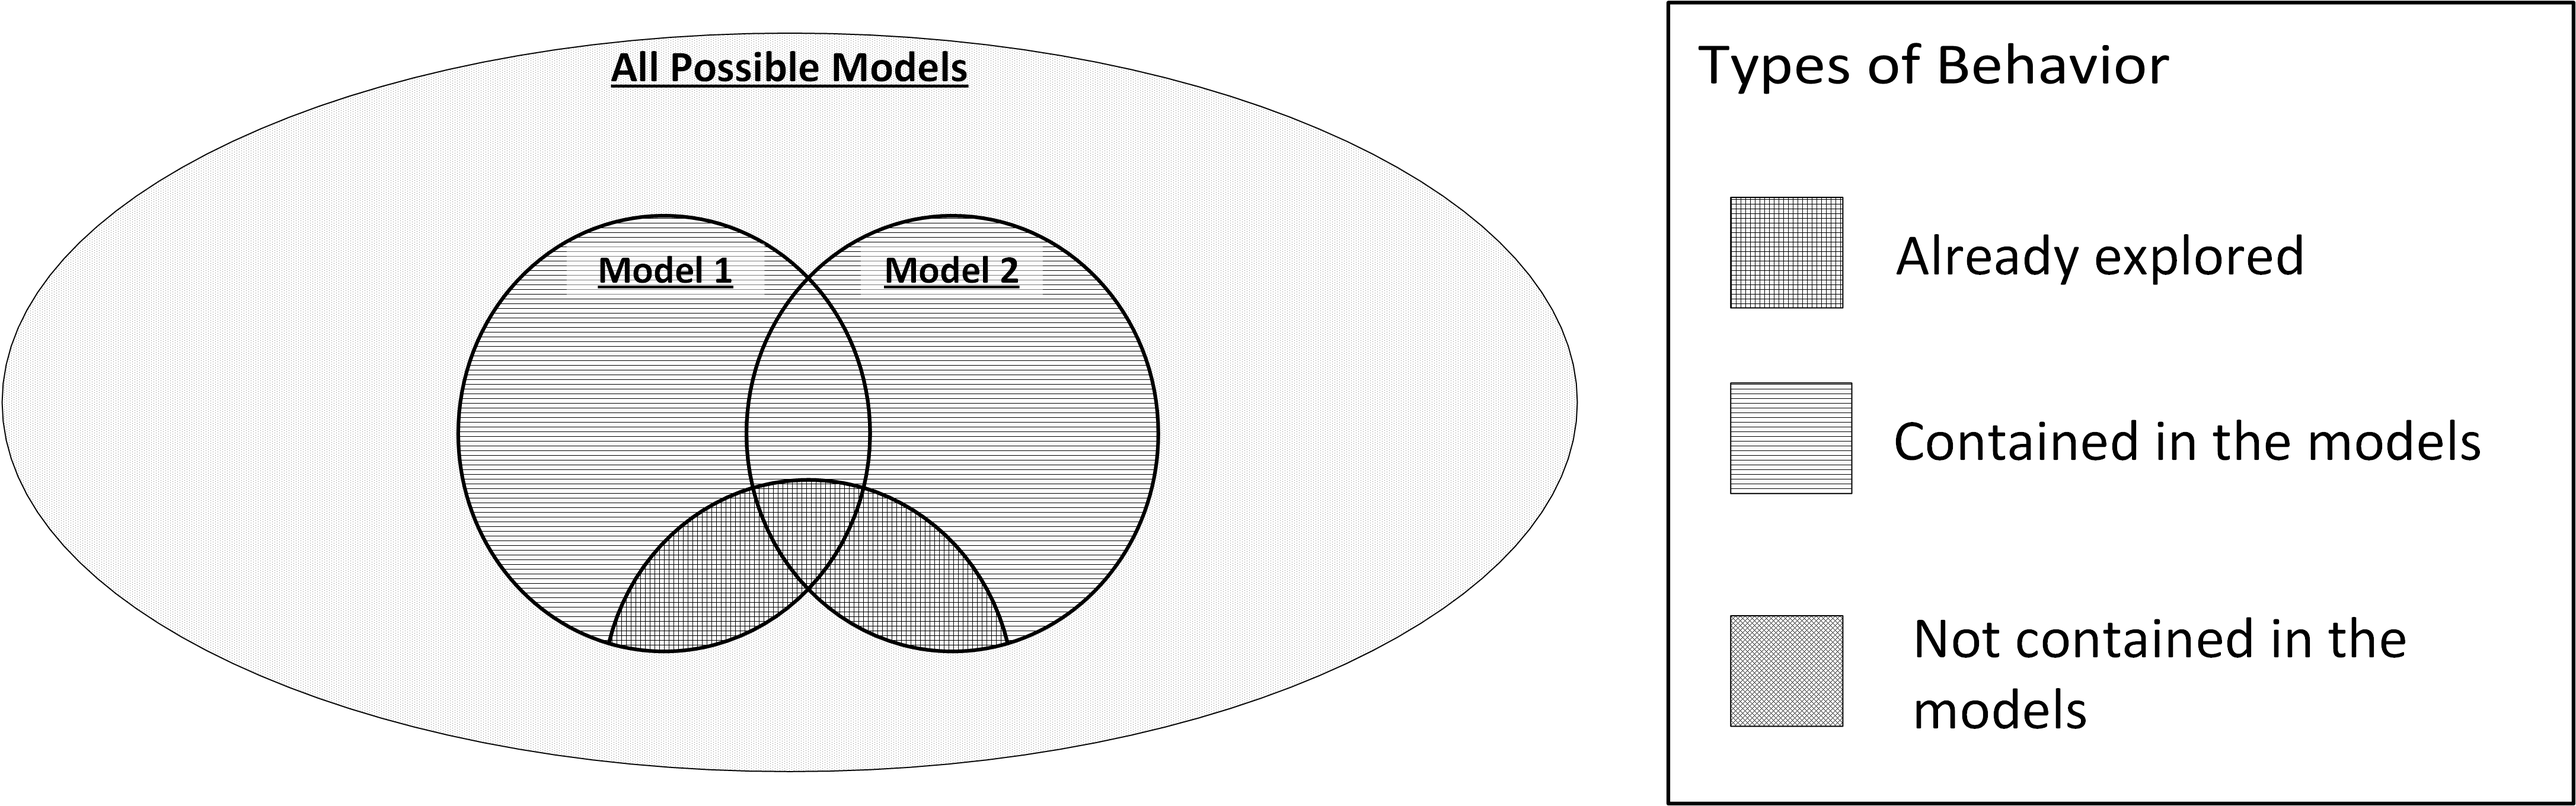
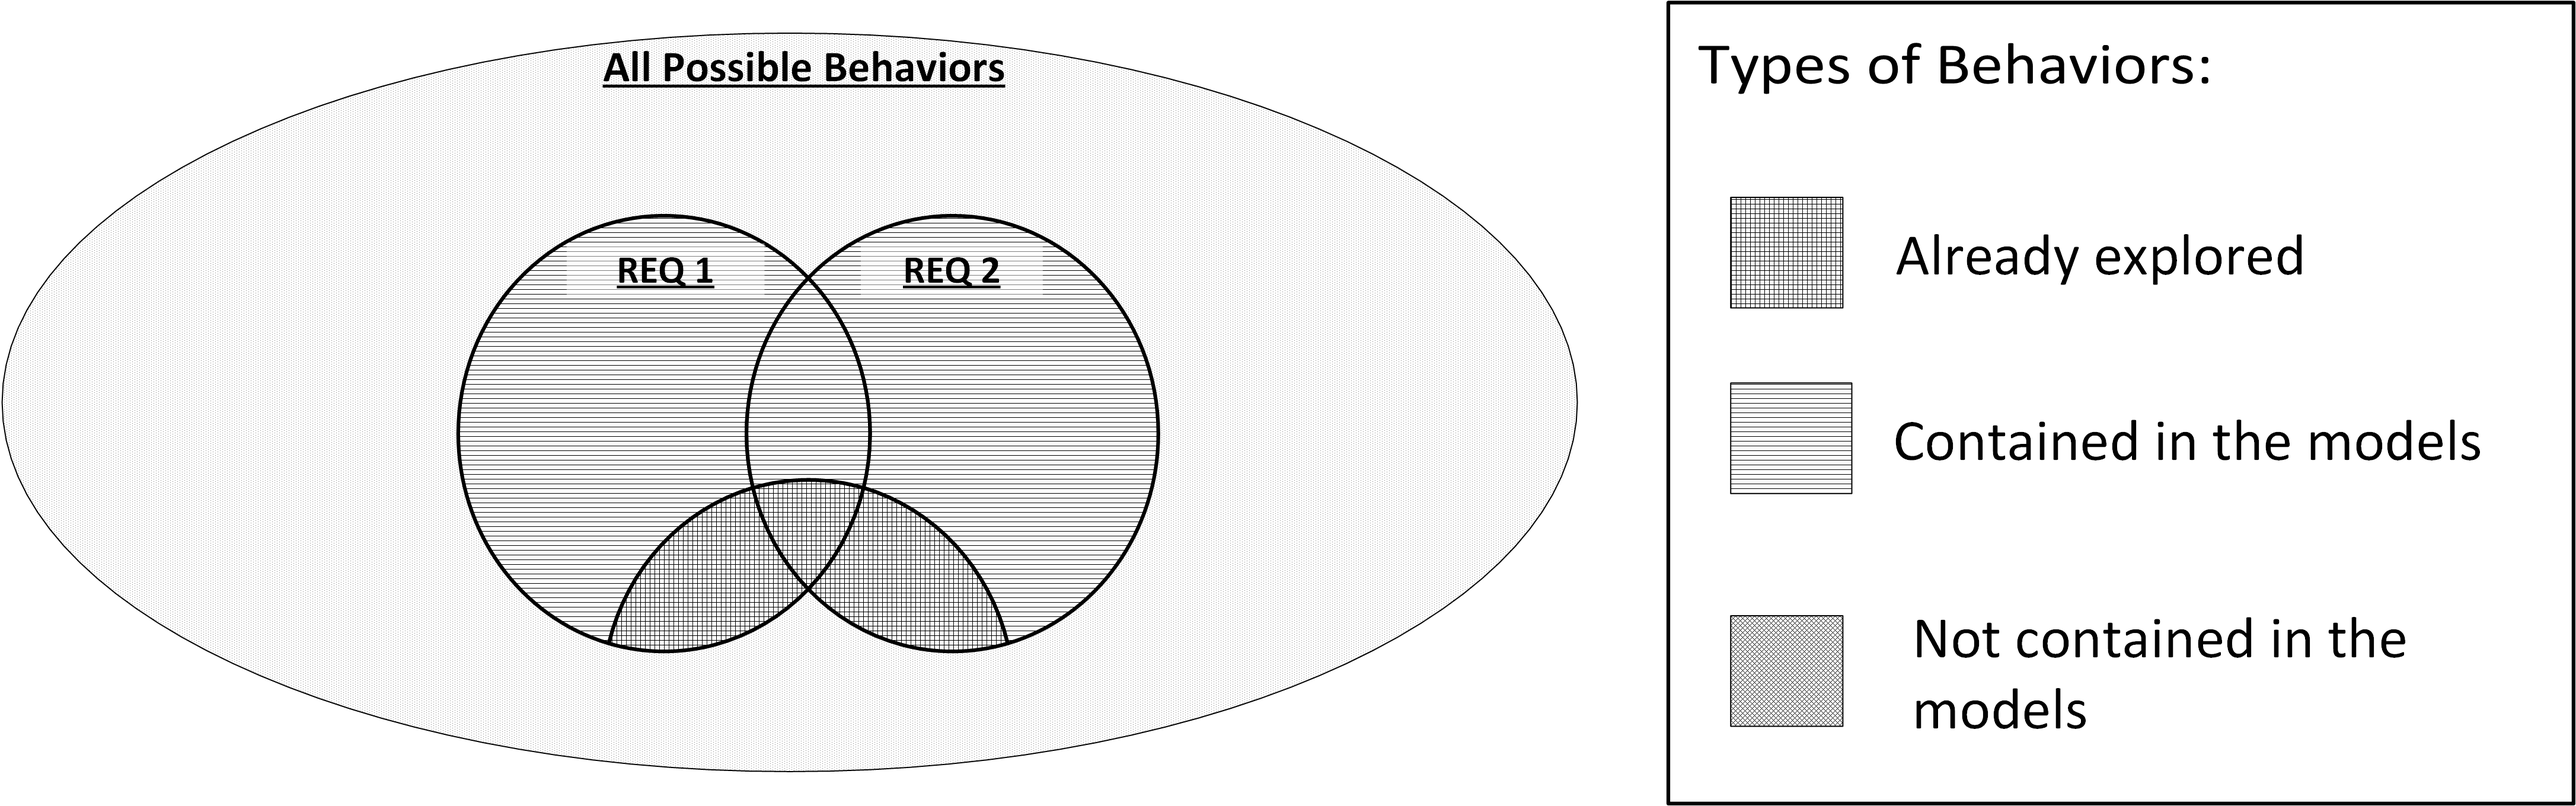
Fix types of behaviors figure

diff --git a/src/content/approach.tex b/src/content/approach.tex
@@ -280,7 +280,7 @@ To solve the above issue, we introduce the concept of adaptive active automata l
 	\fbox{
 		\includegraphics[width=150mm, keepaspectratio]{figures/architecture_commandhandling.png}
 	}
-	\caption{Types of behavior during the learning process} 
+	\caption{Types of behaviors during the learning process with two defined requirements} 
 	\label{fig_architcture_commandhandling}
 \end{figure} 
 
